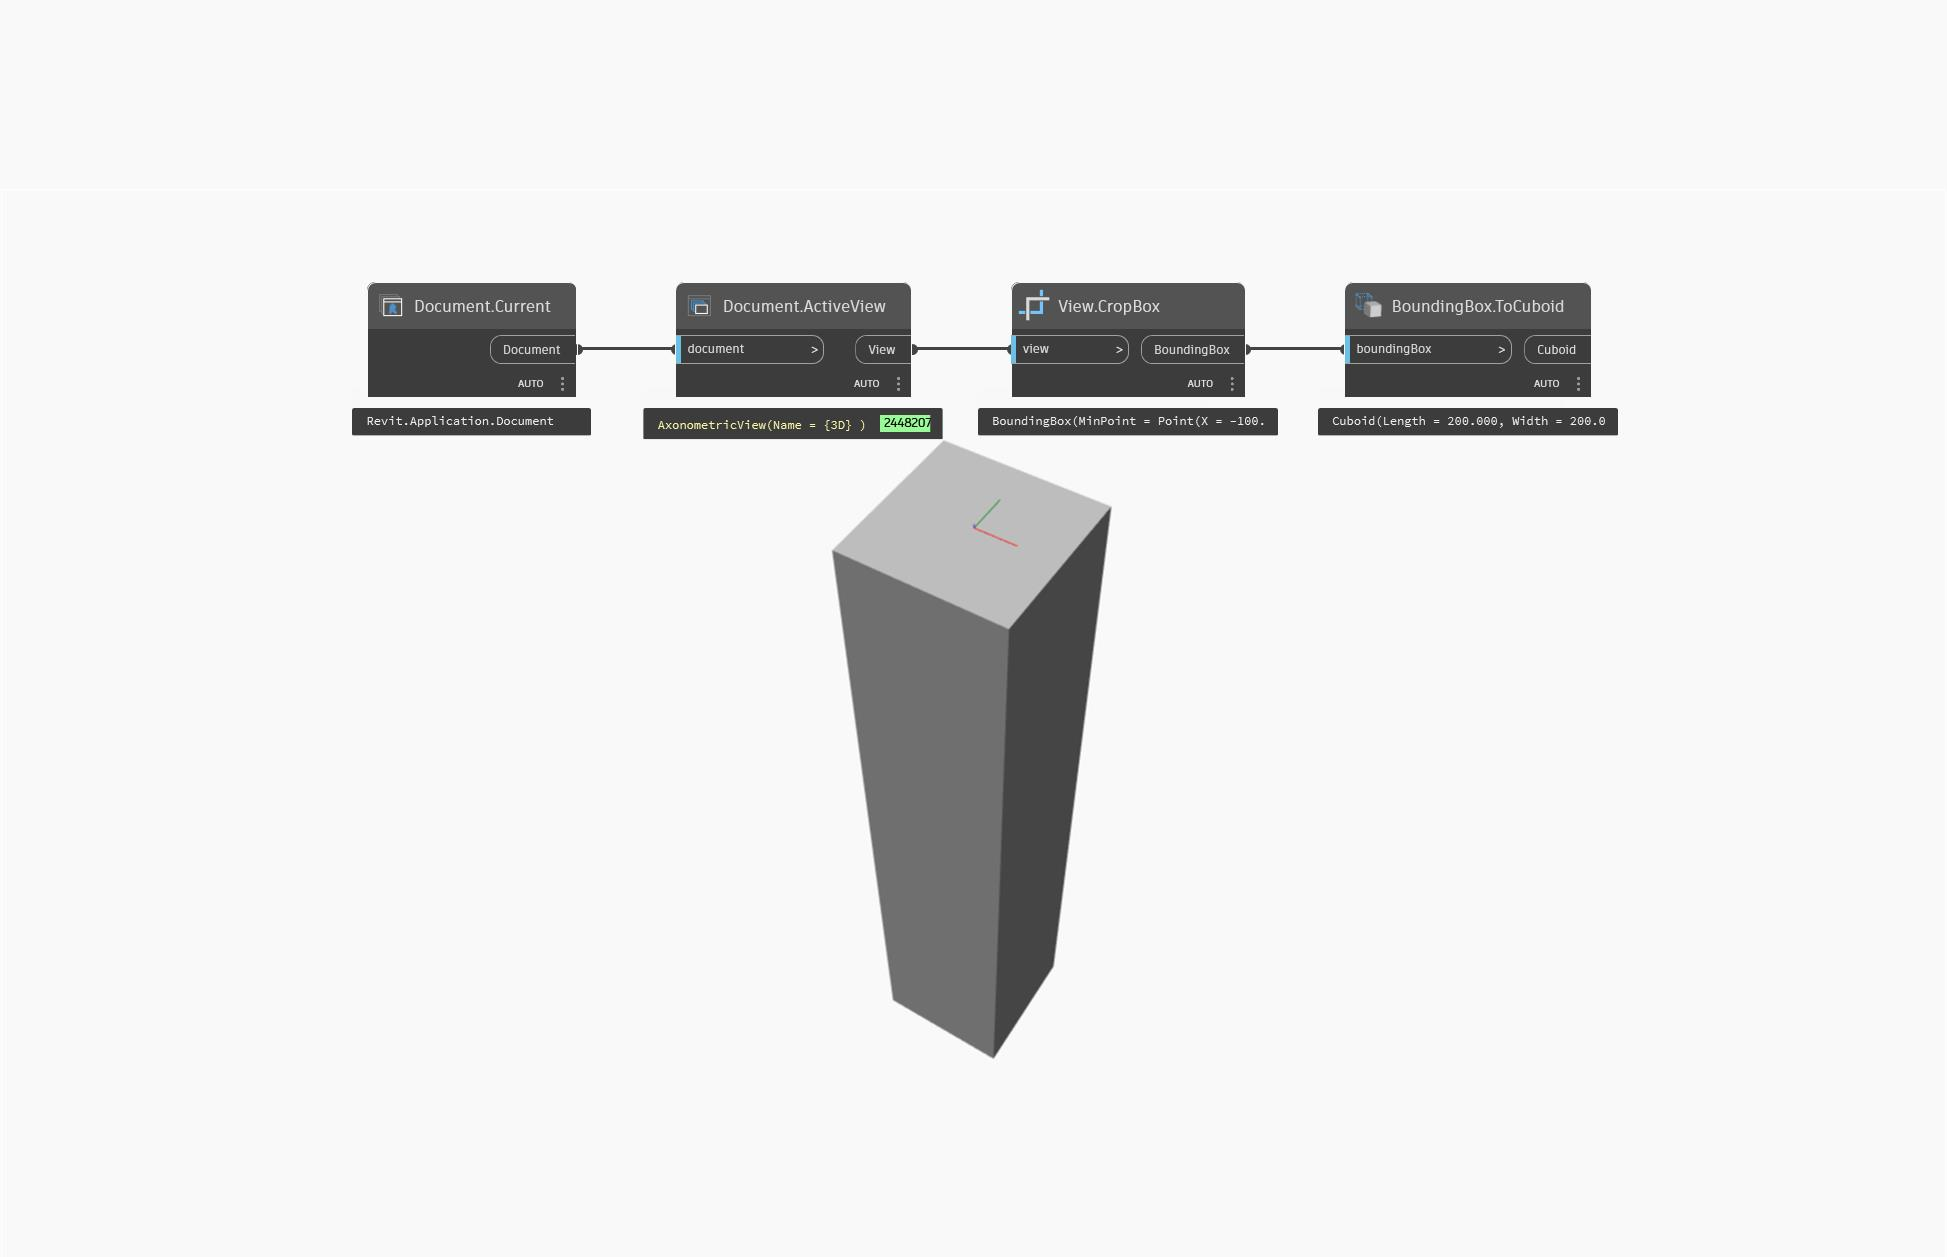
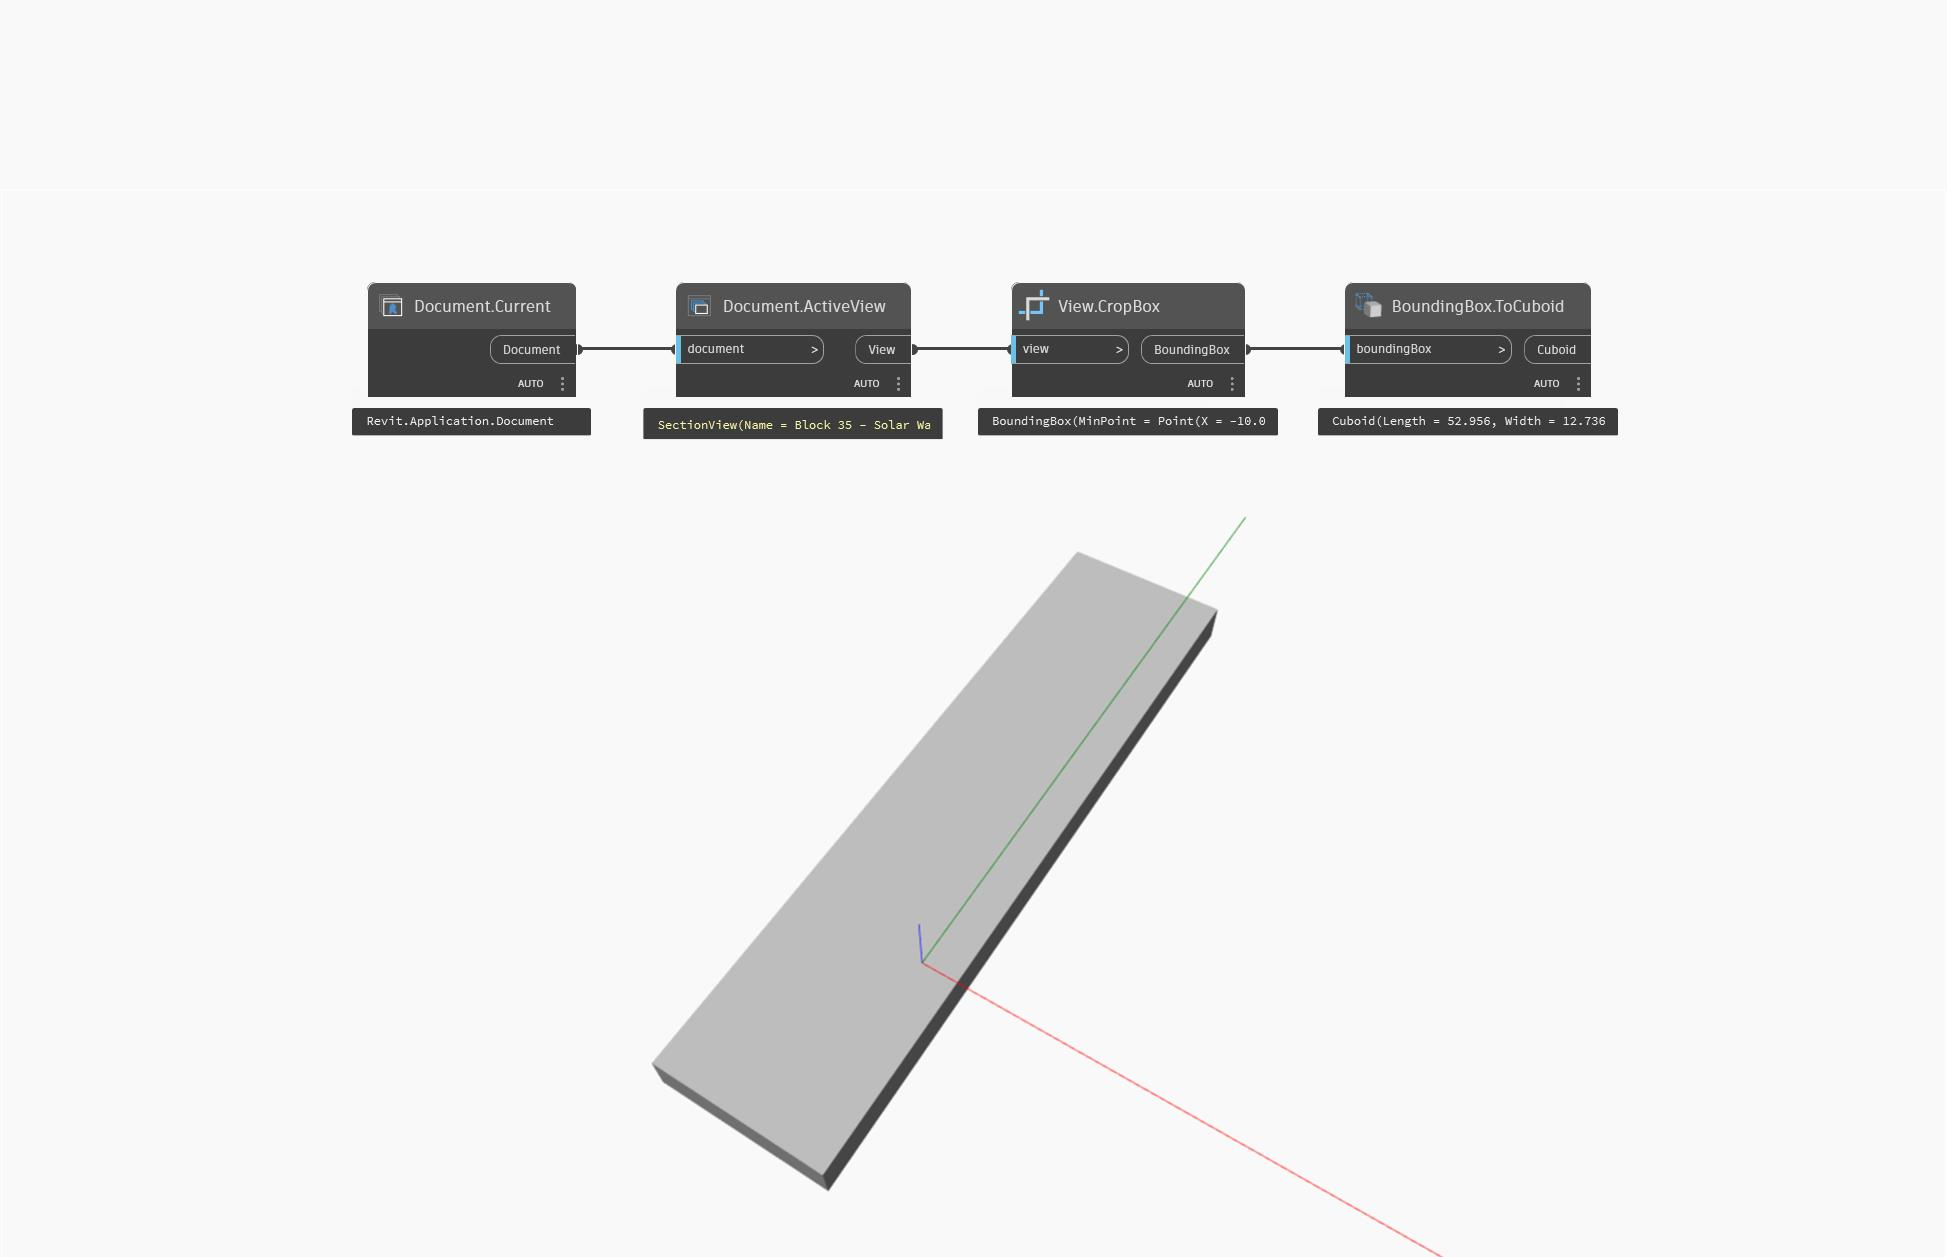
Revit.Elements.Views.View.CropBox

Changed region(s): [[0.339, 0.3103, 0.6471, 0.9618], [0.7704, 0.3103, 0.8012, 0.3413]]

diff --git a/doc/distrib/NodeHelpFiles/Revit.Elements.Views.View.CropBox.md b/doc/distrib/NodeHelpFiles/Revit.Elements.Views.View.CropBox.md
@@ -1,5 +1,5 @@
 ## In Depth
-`View.CropBox` obtains the crop box of the given view as a Dynamo bounding box geometry element. Bounding boxes are axis-aligned, which results in the returned geometry having an orientation of X and Y axis.
+`View.CropBox` obtains the crop box of the given view as a Dynamo bounding box geometry element. Bounding boxes are axis-aligned, which results in the returned geometry having an orientation of X and Y axis. If the crop box is not active for the given view, a bounding box surrounding all geometry of the given view is returned.
 
 In the example below, the crop box of the active view is returned, along with a cuboid representation of the bounding box.
 ___
